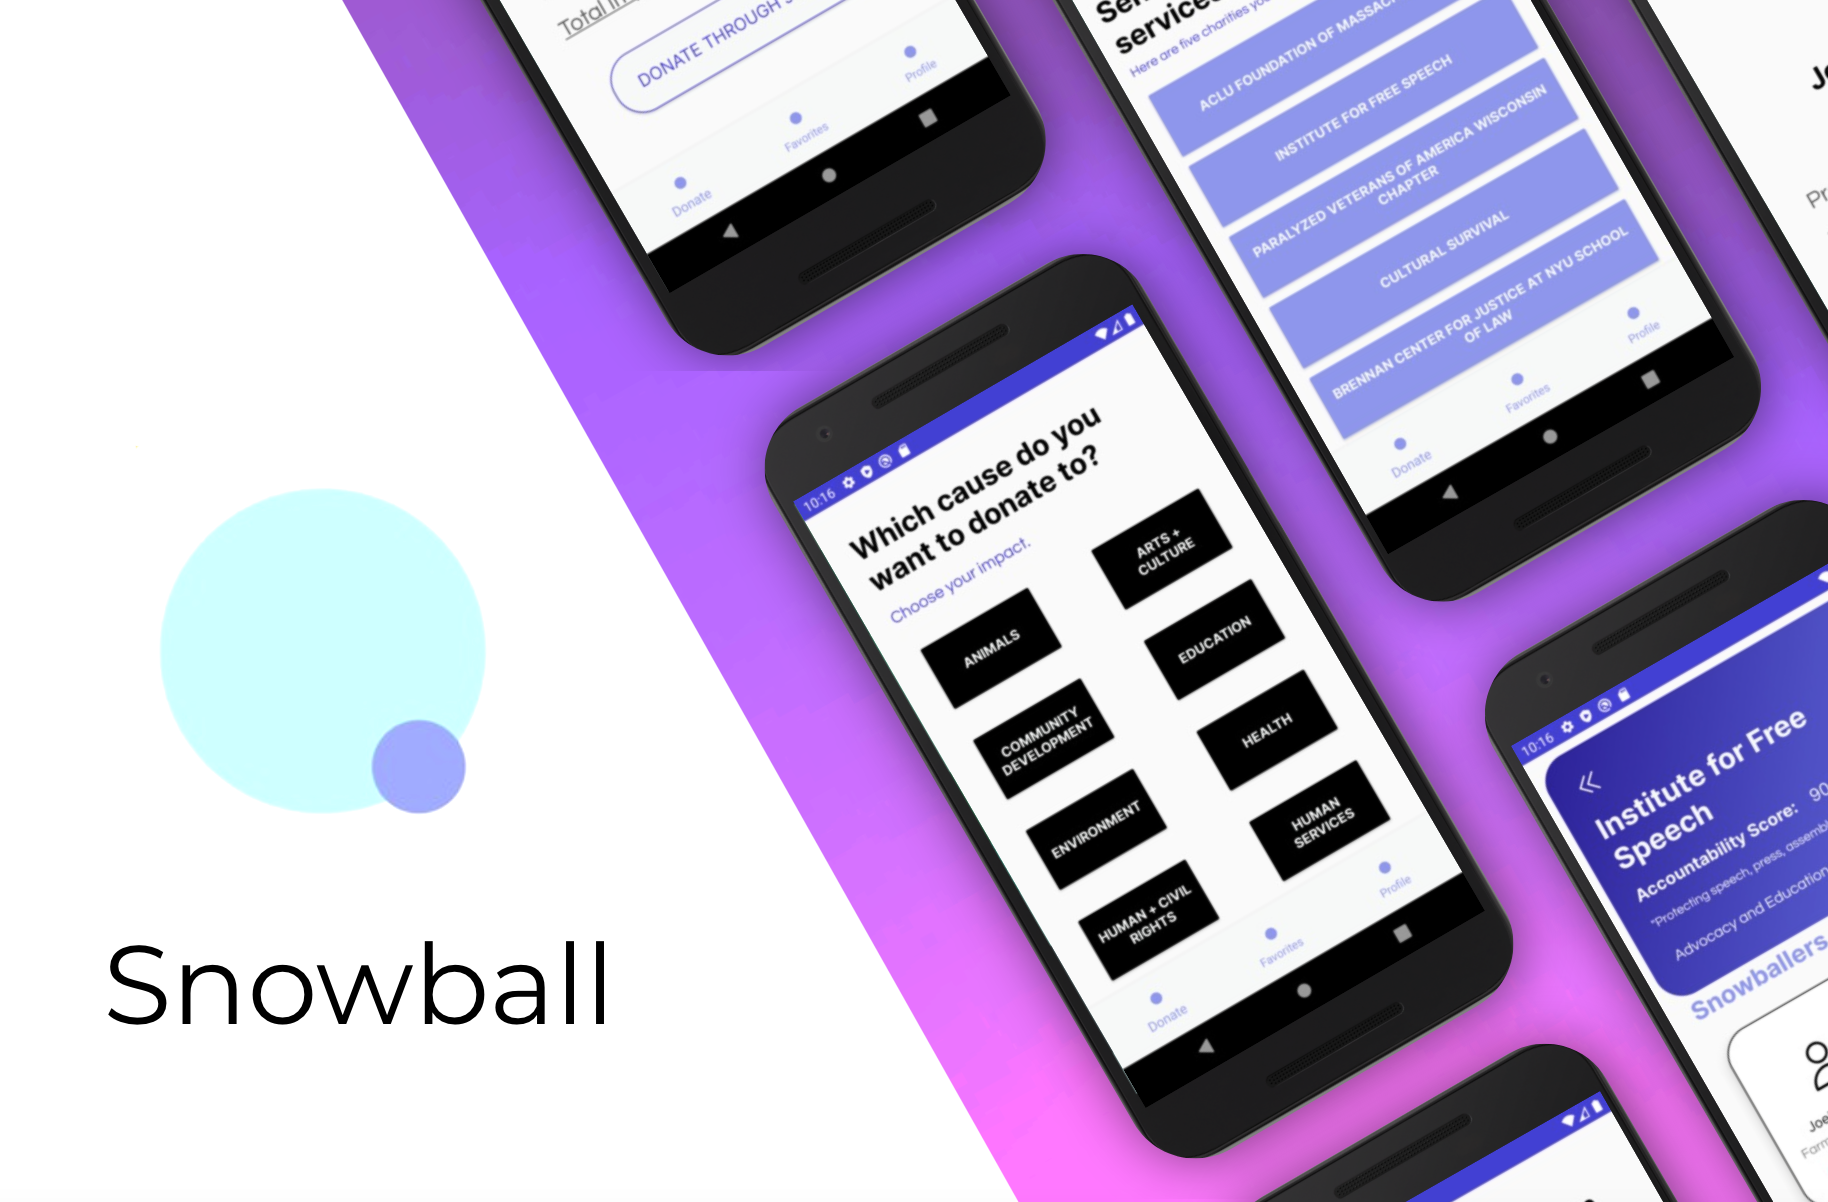
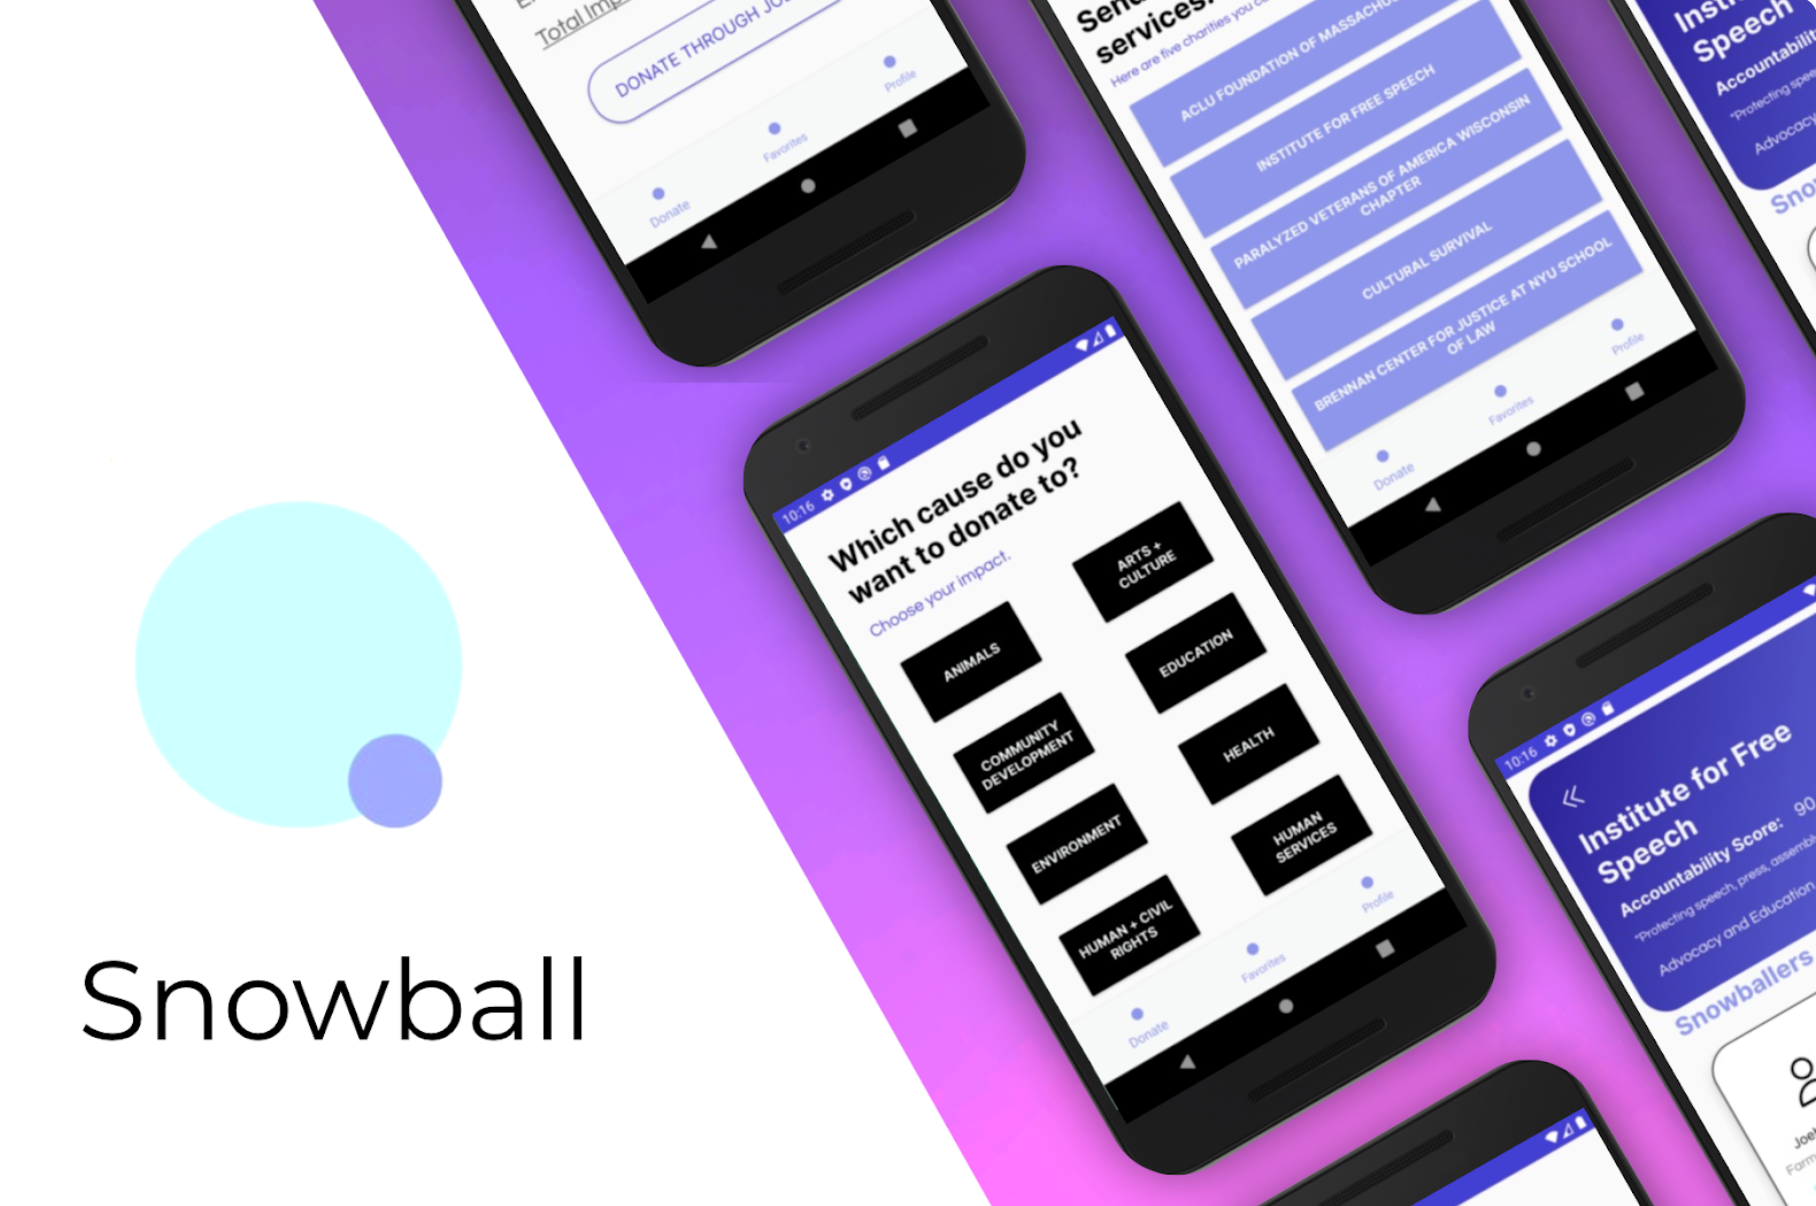
finally finished snowball container

diff --git a/index-style.css b/index-style.css
@@ -479,16 +479,26 @@ div{
 }
 
 #snowball{
+    width: 40vw;
+    height: calc(40vw * 2 / 3);
+    box-shadow: 0px 5px 25px gray;
+    border-radius: 5px;
     background-image: url(snowballpic1.png);
 }
 
 #snowball2{
+    border-radius: 5px;
     background-image: url(snowballpic2.png);
 }
 
 #snowball3{
+    border-radius: 5px;
     background-image: url(snowballpic3.png);
-    top: calc(-44vw * 2 / 3);
+    top: calc(-40vw * 2 / 3);
+}
+
+#snowball-hover{
+    top: calc(-40vw * 4 / 3);
 }
 
 #snowball-dot1{
